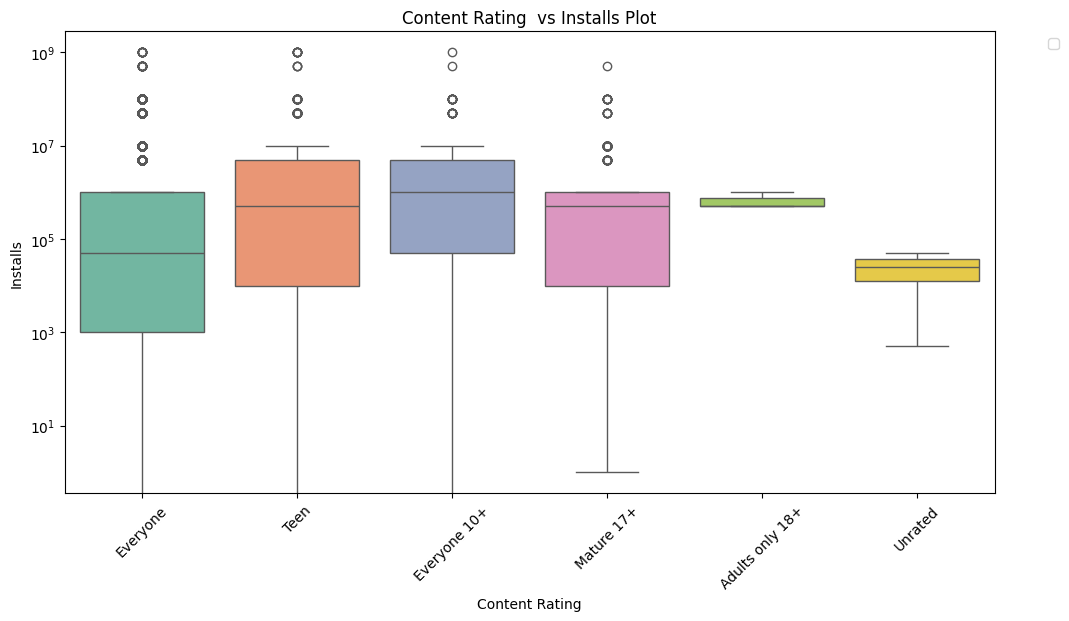
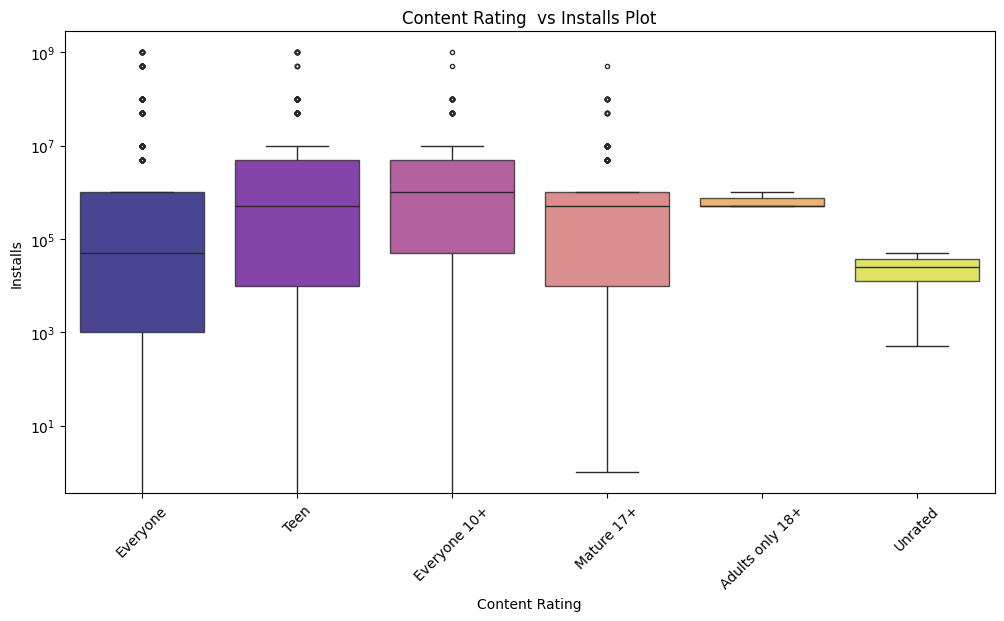
Small fixes

diff --git a/data_cleaning/data_visualisation.py b/data_cleaning/data_visualisation.py
@@ -1,7 +1,8 @@
 
 from pathlib import Path
 from typing import Dict, List, Optional, Tuple,Union
-
+import matplotlib.cm as cm
+import matplotlib.colors as mcolors
 import pandas as pd
 import matplotlib.pyplot as plt
 import matplotlib.patches as mpatches
@@ -14,9 +15,10 @@ def create_viz_for_content_rating(df: pd.DataFrame,out_dir:  Path):
     plt.figure(figsize=(20,6))
     counts = df['Content Rating'].value_counts()
     sizes = counts.values
-    plt.scatter(counts.index, counts.values, s=sizes, alpha=0.6,c=counts.values)
+    plt.scatter(counts.index, counts.values, s=sizes, alpha=0.6,c=counts.values,cmap="viridis")
     plt.xlabel("Category Rating")
     plt.ylabel("Count")
+    plt.colorbar()
     plt.title("Count of Content Rating of App")
     plt.savefig(out_dir / f"Content_Rating_vs_Count.png", bbox_inches="tight")
     plt.close()
@@ -38,21 +40,22 @@ def create_viz_for_content_rating(df: pd.DataFrame,out_dir:  Path):
     plt.tight_layout()
     plt.savefig(out_dir / f"Content_Rating_vs_Category_Count.png", bbox_inches="tight")
     plt.close()
-    # plt.show()
+ 
     
     #Does the Content Rating Affect the number of installs? That is if it is tagged to wider section of audience will that affect the number of installs?
     plt.figure(figsize=(12,6))
-    sns.boxplot(data=df, x="Content Rating", y="Installs", palette='Set2')
+    norm = mcolors.Normalize(vmin=0, vmax=5)
+    colors = [cm.plasma(norm(i)) for i in range(6)]
+    sns.boxplot(data=df, x="Content Rating", y="Installs", palette=colors,fliersize=3,boxprops={'alpha':0.8})
     plt.yscale('log')
     plt.xlabel("Content Rating")
     plt.ylabel("Installs")
-    plt.legend(bbox_to_anchor=(1.05, 1), loc='upper left')
     plt.xticks(rotation=45)
     plt.title(f"Content Rating  vs Installs Plot")
     plt.savefig(out_dir / f"Content_Rating_vs_Installs.png", bbox_inches="tight")
     plt.close()
-    # plt.show()
-
+ 
+    
 
     #What are the best installs values for top 2
     for m in counts.index:
@@ -60,7 +63,7 @@ def create_viz_for_content_rating(df: pd.DataFrame,out_dir:  Path):
         info_graphs= df1['Category'].value_counts().nlargest(2).index
         df1=df1[df1["Category"].isin(info_graphs)]
         plt.figure(figsize=(5,4))
-        sns.boxplot(data=df1, x="Category", y="Installs", palette='Set2')
+        sns.boxplot(data=df1, x="Category", y="Installs", palette="pastel",linewidth=1.1,fliersize=3)
         plt.yscale('log')
         plt.title(f"Top 2 Categories for {m}")
         plt.xlabel("Category")

diff --git a/data_cleaning/main.py b/data_cleaning/main.py
@@ -10,9 +10,9 @@ def _sample_lines(lines, k=20):
 
 if __name__ == "__main__":
     # ======= Reviews: clean + stats + figs =======
-    IN_REV  = "data_raw/googleplaystore_user_reviews.csv"
-    OUT_REV = "data_processed/reviews_clean.csv"
-    FIG_REV = "figs/reviews"
+    IN_REV  = "D:/aditi/Quarter1/ECE143/ECE143_Project/data_cleaning/data_raw/googleplaystore_user_reviews.csv"
+    OUT_REV = "D:/aditi/Quarter1/ECE143/ECE143_Project/data_cleaning/data_processed/reviews_clean.csv"
+    FIG_REV = "D:/aditi/Quarter1/ECE143/ECE143_Project/data_cleaning/figs/reviews"
 
     df_rev, rep_rev = run_reviews_cleaning(IN_REV, out_csv=OUT_REV, also_drop_empty_text=True)
     stats_rev = run_reviews_stats(OUT_REV, out_dir=FIG_REV)
@@ -26,13 +26,13 @@ if __name__ == "__main__":
     print(f"\nFigures saved to: {FIG_REV}")
 
     # ======= Apps: preview first 5 rows in CSV order =======
-    IN_APPS = "data_raw/googleplaystore.csv"
+    IN_APPS = "D:/aditi/Quarter1/ECE143/ECE143_Project/data_cleaning/data_raw/googleplaystore.csv"
     preview = head_with_csv_lines(IN_APPS, n=5)
     print("\nFirst 5 data rows with CSV line numbers:")
     print(preview.to_string(index=False))
 
     # ======= Apps: clean (keep latest per App) =======
-    OUT_APPS = "data_processed/googleplaystore_clean.csv"
+    OUT_APPS = "D:/aditi/Quarter1/ECE143/ECE143_Project/data_cleaning/data_processed/googleplaystore_clean.csv"
     df_apps, rep_apps = clean_googleplay_apps(
         IN_APPS, out_csv=OUT_APPS, keep_latest_per_app=True
     )
